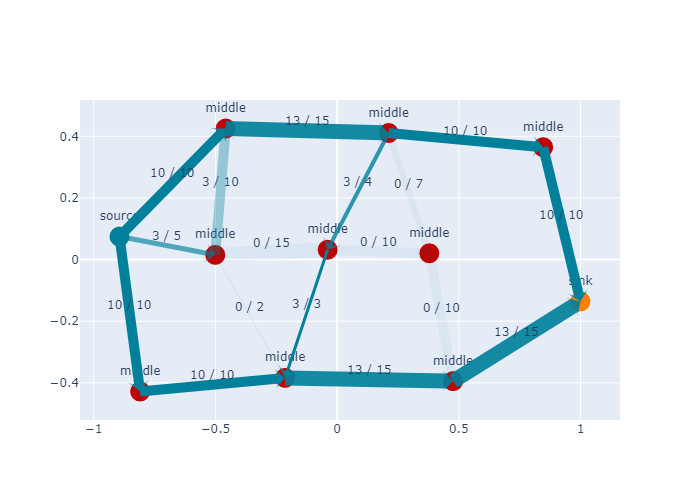
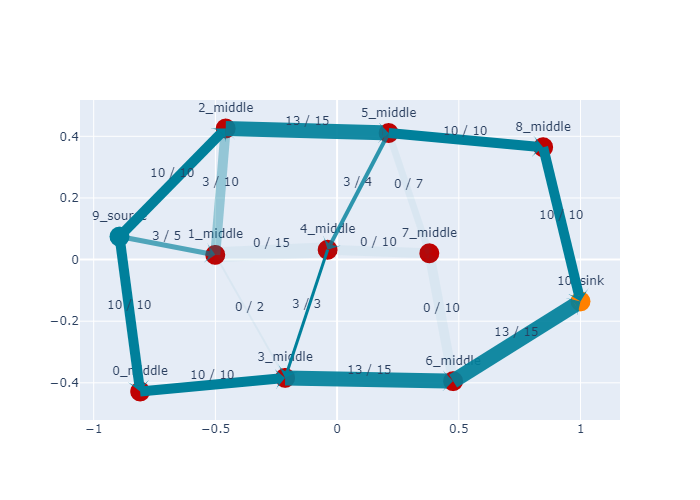
add capacity scaling algorithm + other fixes #5

diff --git a/src/solvers/capacity_scaling.py b/src/solvers/capacity_scaling.py
@@ -1,0 +1,49 @@
+from src.solvers.base import NetworkFlowBaseSolver
+from src.entities.edges import Edge
+
+
+INFINITY = 1000000
+
+
+class CapacityScalingSolver(NetworkFlowBaseSolver):
+    delta: int = 0
+
+    def __init__(self, n, s, t):
+        super().__init__(n, s, t)
+
+    def add_edge(self, start_node, end_node, capacity):
+        super().add_edge(start_node, end_node, capacity)
+        self.delta = max(self.delta, capacity)
+
+    def solve(self):
+        # Start delta at the largest power of 2
+        self.delta = 2 ** (self.delta.bit_length() - 1)
+
+        while self.delta > 0:
+            flow = INFINITY
+            while flow != 0:
+                self.mark_all_nodes_as_unvisited()
+                flow = self.dfs(self.s, INFINITY)
+                self.max_flow += flow
+            self.delta = int(self.delta / 2)
+
+    def dfs(self, node, flow):
+        # At sink node, return augmented path flow
+        if node == self.t:
+            return flow
+
+        # Mark the current node as visited
+        self.visit(node)
+
+        for edge in self.graph[node]:
+            cap = edge.get_remaining_capacity()
+
+            if cap >= self.delta and not self.is_visited(edge.end):
+                bottleneck = self.dfs(edge.end, min(flow, cap))
+
+                # Augment flow with bottleneck value
+                if bottleneck > 0:
+                    edge.augment(bottleneck)
+                    return bottleneck
+
+        return 0

diff --git a/src/solvers/ford_fulkerson.py b/src/solvers/ford_fulkerson.py
@@ -1,10 +1,10 @@
-from src.solvers.base import NetworkFlowSolverBase
+from src.solvers.base import NetworkFlowBaseSolver
 
 
 INFINITY = 1000000
 
 
-class FordFulkersonDfsSolver(NetworkFlowSolverBase):
+class FordFulkersonDfsSolver(NetworkFlowBaseSolver):
     def __init__(self, n, s, t):
         super().__init__(n, s, t)
 
@@ -23,14 +23,13 @@ class FordFulkersonDfsSolver(NetworkFlowSolverBase):
             return flow
 
         # Mark the current node as visited
-        self.visited[node] = self.visited_token
+        self.visit(node)
 
-        edges = self.graph[node]
-
-        for edge in edges:
-            if edge.get_remaining_capacity() > 0 and self.visited[edge.end] != self.visited_token:
+        for edge in self.graph[node]:
+            if edge.get_remaining_capacity() > 0 and not self.is_visited(edge.end):
                 bottleneck = self.dfs(edge.end, min(flow, edge.get_remaining_capacity()))
 
+                # Augment flow with bottleneck value
                 if bottleneck > 0:
                     edge.augment(bottleneck)
                     return bottleneck

diff --git a/src/main.py b/src/main.py
@@ -1,21 +1,26 @@
 import os
 
+from src.solvers.ford_fulkerson import FordFulkersonDfsSolver
 from src.solvers.edmond_karp import EdmondKarpSolver
+from src.solvers.capacity_scaling import CapacityScalingSolver
 from src.utils.visuals import visualize_points_and_flows
 
 cwd = os.path.dirname(os.getcwd())
 
 # Initialize graph parameters
 # Number of nodes (source and sink inclusive)
-n = 12
+n = 11
 
 # Source and sink index
 s = n - 2
 t = n - 1
+print(f"Source node: {s}")
+print(f"Sink node: {t}")
 
 # Initialize MaxFlow solver class
 # solver = FordFulkersonDfsSolver(n, s, t)
-solver = EdmondKarpSolver(n, s, t)
+# solver = EdmondKarpSolver(n, s, t)
+solver = CapacityScalingSolver(n, s, t)
 
 # Create graph
 # Add edges from source
@@ -49,7 +54,6 @@ result_graph = solver.get_simple_graph()
 
 # Display all edges of result graph
 for node in result_graph:
-    print(f"Node: {node}")
     edges = result_graph[node]
     for edge in edges:
         print(edge)

diff --git a/src/utils/visuals.py b/src/utils/visuals.py
@@ -25,7 +25,7 @@ def visualize_points_and_flows(graph, node_coordinates, output_path):
         go.Scatter(
             x=[float(node_coordinates[node][0]) for node in graph.nodes],
             y=[float(node_coordinates[node][1]) for node in graph.nodes],
-            text=[node[1]["type"] for node in graph.nodes.data()],
+            text=[f"{node[0]}_{node[1]['type']}" for node in graph.nodes.data()],
             mode='markers+text',
             textposition="top center",
             marker=dict(

diff --git a/src/solvers/base.py b/src/solvers/base.py
@@ -5,7 +5,7 @@ import networkx as nx
 from src.entities.edges import Edge
 
 
-class NetworkFlowSolverBase:
+class NetworkFlowBaseSolver:
     solved = False
     visited_token = 1
     visited = []
@@ -56,7 +56,6 @@ class NetworkFlowSolverBase:
 
             edges = self.graph[node]
             for edge in edges:
-                print(edge)
                 dg.add_edge(edge.start, edge.end, flow=edge.flow, capacity=edge.capacity,
                             is_residual=edge.is_residual())
 

diff --git a/src/solvers/edmond_karp.py b/src/solvers/edmond_karp.py
@@ -1,13 +1,13 @@
 from collections import deque
 
-from src.solvers.base import NetworkFlowSolverBase
+from src.solvers.base import NetworkFlowBaseSolver
 from src.entities.edges import Edge
 
 
 INFINITY = 1000000
 
 
-class EdmondKarpSolver(NetworkFlowSolverBase):
+class EdmondKarpSolver(NetworkFlowBaseSolver):
     def __init__(self, n, s, t):
         super().__init__(n, s, t)
 
